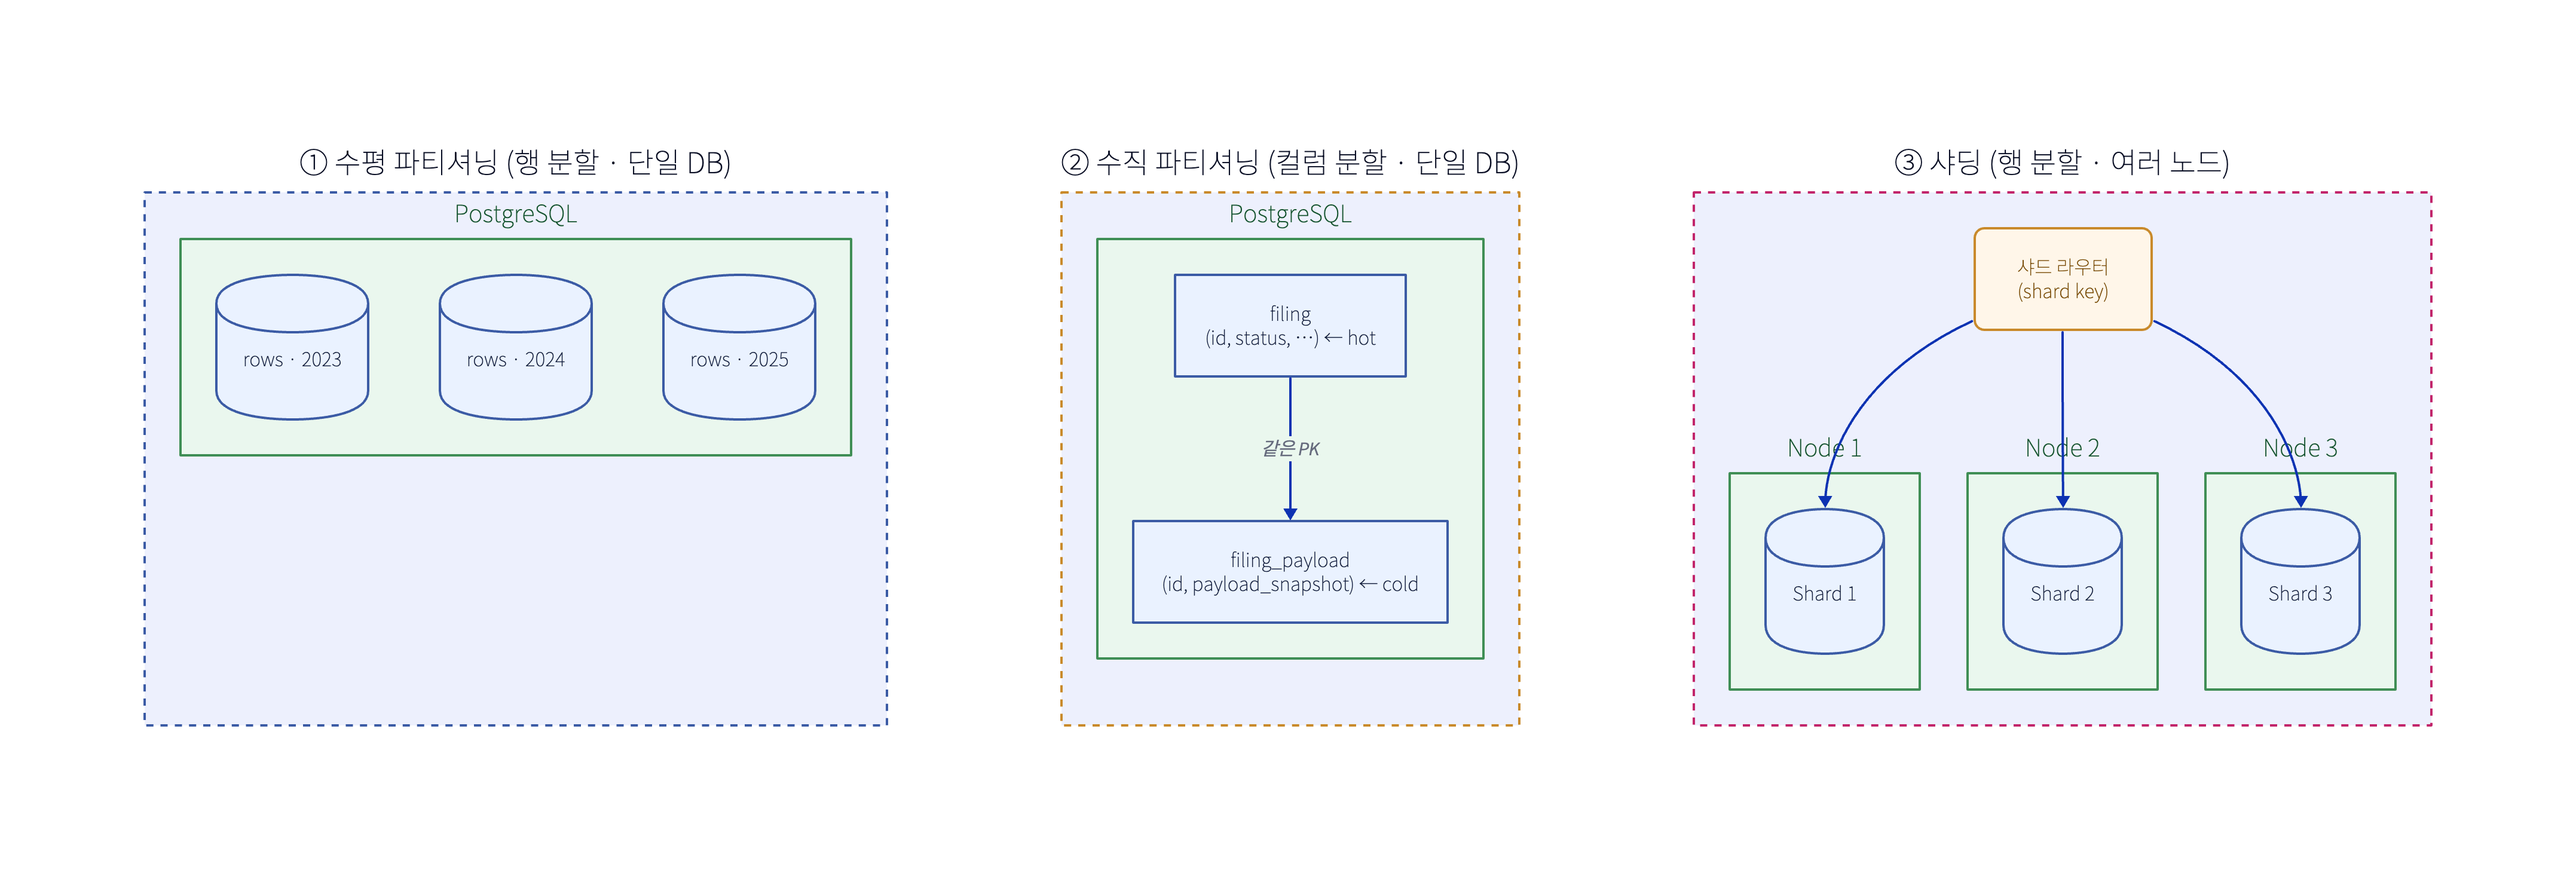
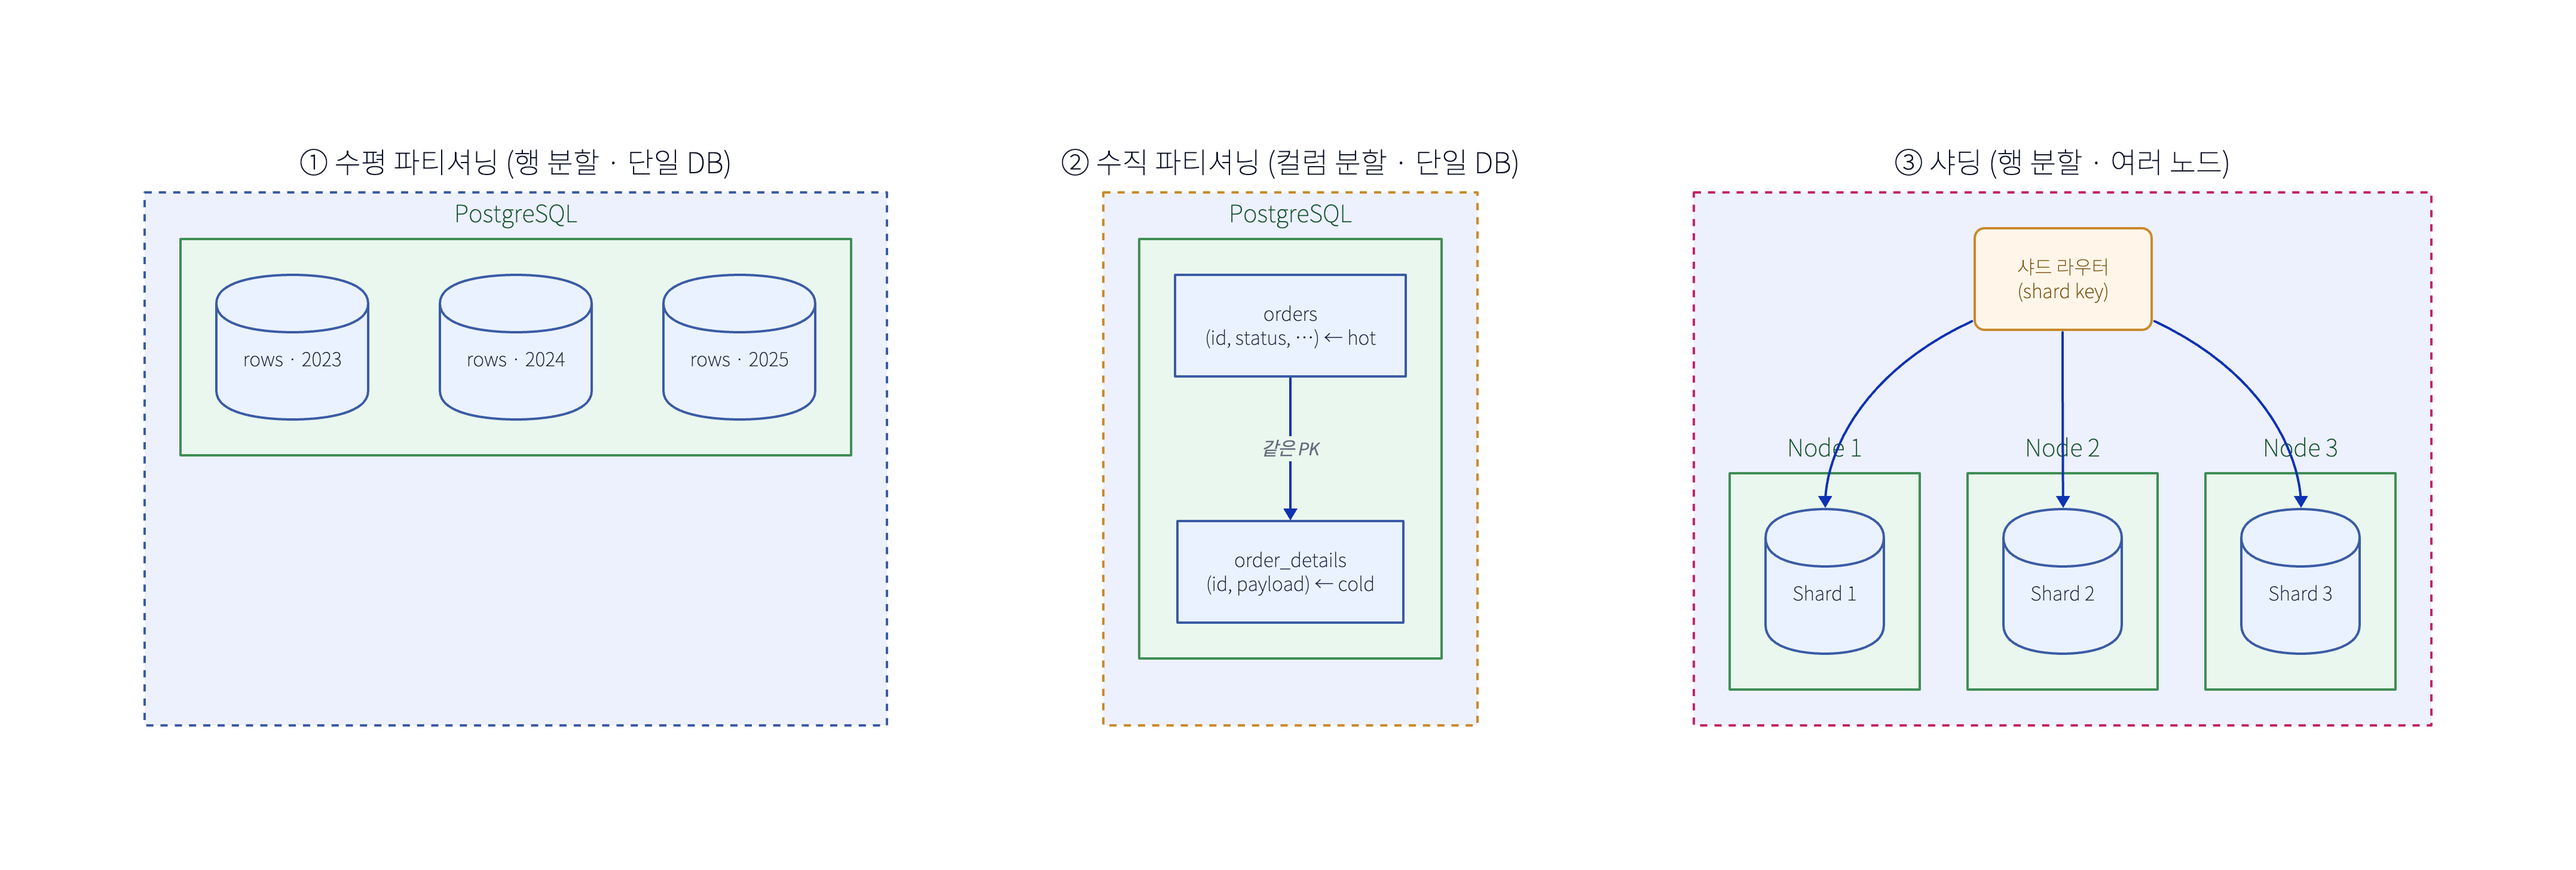
docs: cs-study에서 종소세 프로젝트 결정을 제거하고 system-design으로 역전
cs-study는 개념 학습 문서인데 프로젝트 특정 결정(종소세)을 끌어오는
'연결' 섹션들이 역전되어 있었다. 방향을 바로잡는다:

cs-study (개념만 남김):
- ddd-aggregate: '종소세에 적용' 섹션 삭제, 도메인 용어 일반화
- index: '종소세 설계와 연결' 섹션 삭제, 예시 일반화
- sharding-partitioning: '우리 종소세 설계와 연결' 섹션 삭제, 예시 일반화
- kafka-구조: '8. 종소세 설계와 연결' 섹션 삭제, 예시 일반화
- d2 에셋 2종 일반화 + PNG 재렌더

system-design (cs-study를 역참조):
- 종소세 설계: 애그리거트·인덱스·샤딩 섹션에 cs-study 링크 추가

Changed region(s): [[0.4353, 0.6181, 0.5907, 0.7109], [0.4974, 0.34, 0.5285, 0.3709], [0.4353, 0.5872, 0.4664, 0.6181]]

diff --git a/cs-study/260618-index.md b/cs-study/260618-index.md
@@ -10,7 +10,7 @@
 |---|---|---|
 | **B-tree** (기본) | 등치(`=`)·범위(`<,>,BETWEEN`)·정렬·`ORDER BY` | 대부분의 컬럼·PK·UNIQUE |
 | **Hash** | 등치(`=`)만 | 범위 안 됨 → 거의 B-tree로 충분 |
-| **GIN** | 다중 값 내부 검색 | `jsonb`·배열·전문검색 (`input_snapshot @> …`) |
+| **GIN** | 다중 값 내부 검색 | `jsonb`·배열·전문검색 (`metadata @> …`) |
 | **GiST** | 공간·범위·근접 | 위치(PostGIS)·범위 타입 |
 | **BRIN** | 거대 + 물리 정렬된 테이블 | 시계열·로그 (작고 가벼움) |
 
@@ -19,15 +19,15 @@
 | 종류 | 설명 | 언제 / 예시 |
 |---|---|---|
 | **단일(single)** | 한 컬럼 | 단일 조건 조회 |
-| **복합(composite)** | 여러 컬럼 묶음. **최좌측 접두**만 활용 | `(user_id, tax_year)` 동시 조건 |
-| **UNIQUE** | 유일성 제약 + 인덱스 | `filing.idempotency_key` |
-| **부분(partial)** | 조건(`WHERE`) 맞는 행만 인덱싱 → 작고 빠름 | `… WHERE status='ACCEPTED'` |
+| **복합(composite)** | 여러 컬럼 묶음. **최좌측 접두**만 활용 | `(user_id, created_at)` 동시 조건 |
+| **UNIQUE** | 유일성 제약 + 인덱스 | 멱등키 컬럼 |
+| **부분(partial)** | 조건(`WHERE`) 맞는 행만 인덱싱 → 작고 빠름 | `… WHERE is_active = true` |
 | **표현식(expression)** | 가공값을 인덱싱 | `lower(email)`, `(amount/100)` |
 | **커버링(covering, `INCLUDE`)** | 쿼리 컬럼을 인덱스에 담아 **Index-Only Scan**(힙 안 감) | 자주 같이 읽는 컬럼 |
 
 ## 복합 인덱스 — 컬럼 순서가 핵심
 - **등치(`=`) 컬럼 먼저, 범위(`<,>`) 컬럼 나중.** (범위 뒤 컬럼은 인덱스 못 탐)
-- `(user_id, tax_year)` 인덱스는 `user_id=?` 나 `user_id=? AND tax_year=?` 엔 타지만, **`tax_year` 단독**엔 못 탐(최좌측 깨짐).
+- `(user_id, created_at)` 인덱스는 `user_id=?` 나 `user_id=? AND created_at=?` 엔 타지만, **`created_at` 단독**엔 못 탐(최좌측 깨짐).
 - 선택도(selectivity) 높은(값 다양) 컬럼이 앞에 오면 유리.
 
 ## 트레이드오프 (공짜 아님)
@@ -40,18 +40,12 @@
 - **낮은 선택도**: boolean·소수 값 컬럼은 인덱스 효과 적음.
 - 복합 인덱스 **최좌측 컬럼 생략**.
 
-## Clustered vs Non-clustered (UUIDv7 논의와 연결)
+## Clustered vs Non-clustered
 - **MySQL InnoDB**: PK = **clustered index** → 행이 **PK 순서로 물리 저장**. 그래서 랜덤 PK(UUIDv4)면 삽입 위치가 흩어져 페이지 분할↑. 2차 인덱스는 PK를 담아 재조회.
 - **PostgreSQL**: 행은 **heap**에 저장(클러스터드 아님). 모든 인덱스가 heap의 `ctid`를 가리킴. `CLUSTER`는 일회성 정렬.
-- → 그래서 **UUIDv7**(시간정렬)이 인덱스 지역성에 유리(특히 MySQL). [→ 키 설계](../system-design/260611-종소세-환급-설계.md)
+- → 그래서 **UUIDv7**(시간정렬)이 인덱스 지역성에 유리(특히 MySQL).
 
 ## 확인: `EXPLAIN`
 - `EXPLAIN (ANALYZE, BUFFERS) SELECT …` 로 실제 계획 확인.
 - **Seq Scan**(전체 훑음) → **Index Scan**(인덱스 타고 힙) → **Index Only Scan**(힙 안 감, 커버링) → **Bitmap Scan**(여러 인덱스 조합).
 - "인덱스 만들었는데 왜 Seq Scan?" → 위 함정 / 통계 / 작은 테이블(옵티마이저가 풀스캔이 빠르다 판단) 점검.
-
-## 종소세 설계와 연결
-- `filing`: PK `filing_id` · `UNIQUE(idempotency_key)` · 부분 `UNIQUE(user_id,tax_year,type) WHERE status='ACCEPTED'`.
-- 조회 패턴별: `(user_id, tax_year)` 복합 인덱스.
-- `jsonb`(`input_snapshot`·`result`) 내부 검색 필요하면 **GIN**.
-- **파티셔닝**(`tax_year`)과 함께: 파티션별 로컬 인덱스로 인덱스도 작게.

diff --git a/cs-study/260617-kafka-구조.md b/cs-study/260617-kafka-구조.md
@@ -9,7 +9,7 @@
 | 용어 | 뜻 |
 |---|---|
 | **Broker** | Kafka 서버 1대. 여러 broker = **Cluster**. 파티션을 나눠 보관·서빙. |
-| **Topic** | 메시지 카테고리(이름). 논리적 스트림. 예: `tax.filing`. |
+| **Topic** | 메시지 카테고리(이름). 논리적 스트림. 예: `order.events`. |
 | **Partition** | 토픽을 쪼갠 단위 = **실제 append-only 로그**. **병렬성 + 순서**의 단위. |
 | **Offset** | 파티션 내 메시지의 순번(위치). 컨슈머는 "어디까지 읽었나"를 offset으로 기억. |
 | **Producer** | 발행자. 레코드의 **key**로 어느 파티션에 넣을지 결정(`hash(key) % partitions`). |
@@ -31,7 +31,7 @@
 
 **(1) key 라우팅 — 순서 단위 정하기**
 - `hash(key) % 파티션수` 로 파티션 결정 → **같은 key = 같은 파티션 = 순서 보장**. key 없으면 라운드로빈이라 순서 X.
-- **무엇을 key로?** = "무엇 단위로 순서를 지킬까". 예: `key=filing_id` → 한 신고의 사건들(`Submitted→Accepted`)이 순서대로. (서로 다른 신고끼리는 순서 무관)
+- **무엇을 key로?** = "무엇 단위로 순서를 지킬까". 예: `key=order_id` → 한 주문의 사건들(`Created→Paid`)이 순서대로. (서로 다른 주문끼리는 순서 무관)
 
 **(2) 프로듀서 함정 — 재시도 순서 역전**
 - `max.in.flight.requests.per.connection > 1` + 재시도면, 앞 메시지가 실패·재전송되는 사이 **뒤 메시지가 먼저** 들어가 순서가 뒤집힐 수 있음.
@@ -91,16 +91,9 @@
 | 전략 | 소비 | 순서 | 단점 |
 |---|---|---|---|
 | **단일 토픽(모든 타입)** | consumer가 `event_type` 필터 + 관심 없는 것도 다 받음 | 글로벌 | 소비 로직 복잡·낭비 |
-| **토픽 per 애그리거트** (`tax.filing`·`tax.claim`), key=id | 관심 애그리거트만 구독 + event_type은 **헤더로 가벼운 필터** | **애그리거트 내 보장** | (보통 정답) |
-| **토픽 per 이벤트타입** (`filing.submitted`…) | 필터 0 | 한 애그리거트 사건이 흩어져 **순서 깨짐** | 토픽 폭발 |
+| **토픽 per 애그리거트** (`order`·`payment`), key=id | 관심 애그리거트만 구독 + event_type은 **헤더로 가벼운 필터** | **애그리거트 내 보장** | (보통 정답) |
+| **토픽 per 이벤트타입** (`order.created`…) | 필터 0 | 한 애그리거트 사건이 흩어져 **순서 깨짐** | 토픽 폭발 |
 
 핵심 트레이드오프: **나눌수록 consumer 필터는 줄지만, (같은 애그리거트 내) 순서 보장과 토픽 수가 나빠진다.** 수명주기 엔티티는 순서가 중요 → **per-애그리거트가 스윗스팟.**
 
 > 쓰기(DB 아웃박스 테이블)와 전송(토픽)은 **독립 결정**. 단일 `domain_event` 테이블로 써놓고 → 발행 때 `aggregate_type`으로 **토픽 라우팅**도 가능.
-
-## 8. 종소세 설계와 연결
-- 큐/스트림은 SQS/SNS 대신 **Kafka(MSK)** — [종소세 아키텍처](../system-design/260611-종소세-환급-설계.md) 참고.
-- `FilingSubmitted`·`ClaimApproved` → **토픽 per 애그리거트**(`tax.filing`…), **key=`aggregate_id`** 로 순서 보장, 알림·회계 그룹이 각자 소비.
-- at-least-once → 컨슈머 멱등(우리 `idempotency_key`와 같은 맥락).
-- 처리 실패는 **DLT(dead-letter topic)** 로 격리.
-- 발행 신뢰성은 **Spring Modulith 아웃박스 → externalization** ([종소세 설계 — 테이블 성격·증적](../system-design/260611-종소세-환급-설계.md)).

diff --git a/system-design/260611-종소세-환급-설계.md b/system-design/260611-종소세-환급-설계.md
@@ -119,6 +119,8 @@
 
 ## 도메인 — 바운디드 컨텍스트 / 애그리거트
 
+> 애그리거트·경계·ID 참조의 개념은 [DDD 애그리거트](../cs-study/260618-ddd-aggregate.md) 참고. 아래는 그 개념을 종소세 도메인에 적용한 결과.
+
 - **estimate (세액계산/미리보기)** — 미리보기 산출. 룰셋 버전 + 입력 스냅샷 + 결과. **결과 불변**.
 - **filing (신고/제출)** — 셀프 신고 제출 사가. 멱등키 + 제출 스냅샷 + 접수번호.
 - **ruleset (룰셋)** — 연도별 세법 룰. **불변 버전**. 계산은 항상 특정 버전 참조.
@@ -185,9 +187,12 @@ sequenceDiagram
 - PII(주민번호·소득)는 컬럼 암호화(KMS/pgcrypto) + Redis 캐싱 시 짧은 TTL + 최소 스코프.
 
 ## PostgreSQL 활용 포인트 (실무)
+
+> 인덱스 종류·설계 원칙은 [인덱스](../cs-study/260618-index.md), 파티셔닝 vs 샤딩은 [샤딩 vs 파티셔닝](../cs-study/260618-sharding-partitioning.md) 참고.
+
 - `JSONB`: `input_snapshot`·`result`·룰셋 `definition` — 스키마 유연 + 부분 인덱스(GIN).
 - `UNIQUE`: 멱등키(업무 키)·자연키. **FK는 DB 제약 없이 앱 레벨 논리 참조**(→ 키·제약 정책).
-- **파티셔닝**(`tax_year`): 시즌 분리 + 보관/파기 용이.
+- **파티셔닝**(`tax_year`): 시즌 분리 + 보관/파기 용이. (샤딩은 불필요 — 초고 TPS 도메인 아님)
 - 폴링 읽기 폭증 → **읽기 복제본 + Redis 캐시**로 흡수.
 
 ## 키 · 제약 정책

diff --git a/cs-study/260618-sharding-partitioning.md b/cs-study/260618-sharding-partitioning.md
@@ -13,7 +13,7 @@
 | 방식 | range / hash / list | hot/cold 컬럼 분리 | 수평 파티셔닝을 노드로 분산 |
 | 목적 | 관리·프루닝·보관/파기 | hot 행 슬림(캐시·스캔↑) | **수평 확장**(용량·쓰기) |
 | 트랜잭션·조인 | 로컬, 쉬움 | 합치려면 조인 | **크로스샤드 어려움**(분산 트랜잭션) |
-| 예시 | `tax_year` 파티션 | `filing` ↔ `payload_snapshot` 분리 | Vitess·Citus·MongoDB |
+| 예시 | 연도별 파티션 | 본문 ↔ 메타데이터 분리 | Vitess·Citus·MongoDB |
 
 - **샤딩 = 여러 노드로 흩은 수평 파티셔닝** (샤딩 ⊂ 수평). **수직은 다른 축**(같은 노드, 컬럼 분리).
 - PostgreSQL은 큰 컬럼을 **TOAST**가 자동 out-of-line 저장 → 수직 분리 없이도 대부분 해결.
@@ -35,7 +35,3 @@
 ## 다른 맥락의 "partition" (용어 혼동 주의)
 - **Kafka partition**: 토픽을 쪼갠 단위(브로커 분산) — 사실상 토픽의 샤딩·파티셔닝. (→ [Kafka 구조](./260617-kafka-구조.md))
 - **CAP의 partition tolerance**: 네트워크 **분단** 내성 — 위 분할과 전혀 다른 의미.
-
-## 우리 종소세 설계와 연결
-- `tax_year`로 **파티셔닝**(보관/파기·시즌 분리) 채택 — [종소세 설계](../system-design/260611-종소세-환급-설계.md).
-- **샤딩은 불필요**: 신고/계산은 메시지급 초고 TPS가 아니라 PostgreSQL + 인덱스 + 읽기 복제본 + Redis로 충분. 복잡도 큰 샤딩은 도입 안 함.
